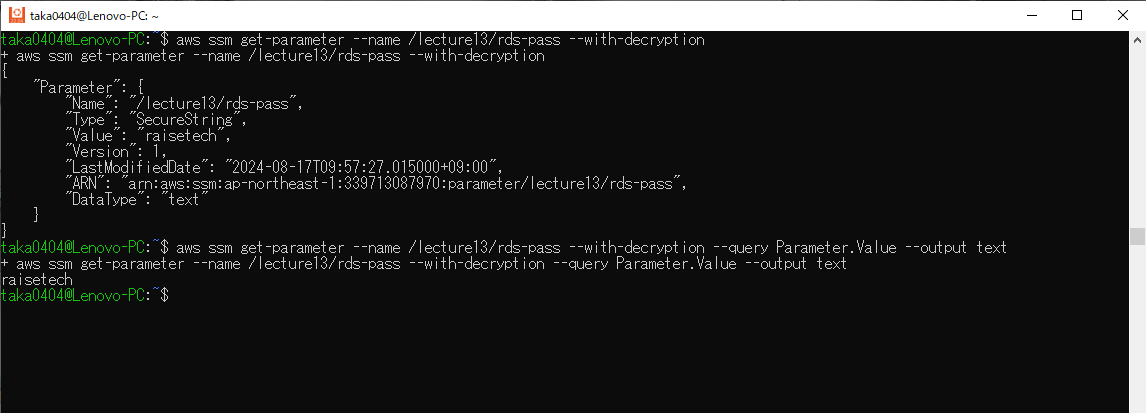
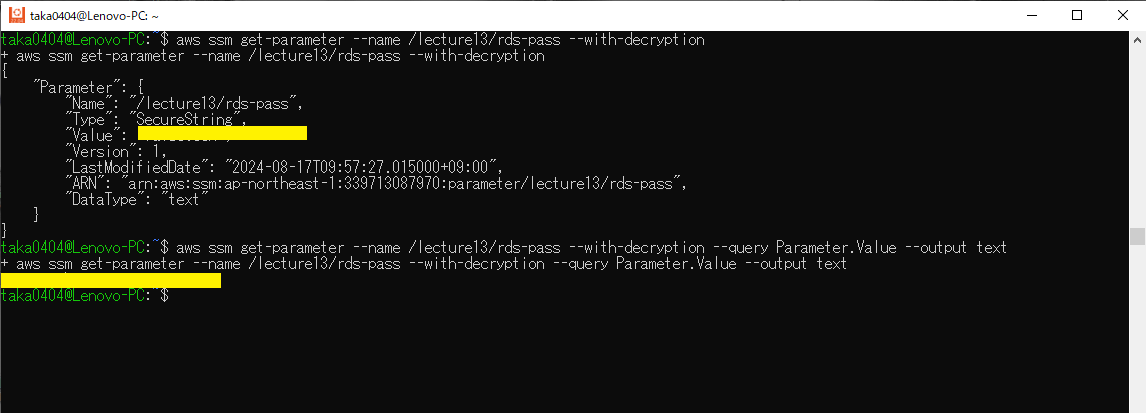
update lecture13.md

Changed region(s): [[0.0, 0.6392, 0.2138, 0.6973], [0.1222, 0.2906, 0.2749, 0.3487]]

diff --git a/lecture13.md b/lecture13.md
@@ -230,8 +230,8 @@
       ![図](images_lec13/11-3-5_cfn_vpc_failed3_cfn_access-denied-IAM.PNG)  
       ![図](images_lec13/11-3-6_cfn_IAM_REGION.PNG)  
       ![図](images_lec13/11-3-7_cfn_IAM_key.PNG)  
-      ![図](images_lec13/11-3-8_cfn_IAM_key_PASS.PNG)★  
-      ![図](images_lec13/11-3-9_cfn_IAM_key_ID.PNG)★  
+      ![図](images_lec13/11-3-8_cfn_IAM_key_PASS.PNG)  
+      ![図](images_lec13/11-3-9_cfn_IAM_key_ID.PNG)  
       ![図](images_lec13/11-3-10_cfn_ENV-VALs.PNG)  
     - CircleCI未承認のorbsを使うには設定変更が必要  
       ![図](images_lec13/11-3-11_cfn_vpc_failed2_uncertified_orbs.PNG)  
@@ -294,19 +294,29 @@
       ![図](images_lec13/11-4-9_cli_enbv2_describe-lbs_query_LBName.PNG)  
   - Systems Manager
     - Passを取得  
-      ![図](images_lec13/11-4-10_cli_ssm_get-parameter_pass.PNG)★  
+      ![図](images_lec13/11-4-10_cli_ssm_get-parameter_pass.PNG)  
   - 各変数をシェルスクリプトへ出力
     ```
     echo expourt 変数名=$(変数取得コマンド) >> シェルスクリプトファイル名
     ```
 
 - CircleCIへのAnsible実装
-  - a
+  - ansibleのorbs追加
     ![図]()  
-    ![図]()
+    ![図]()  
+  - ローカルで作成し動作確認済みのansible各種ファイルをコピー  
+    ![図]()  
+    ![図]()  
+  - Cloudformationからの変数引継ぎ  
+    ![図]()  
+    ![図]()  
+  - Fingerprintの登録  
+    ![図]()  
+    ![図]()  
+  - 動作確認  
 
 - CircleCIへのSeverspec実装
-  - a
+  - Serverspecのorbs追加
     ![図]()  
     ![図]()  
 
